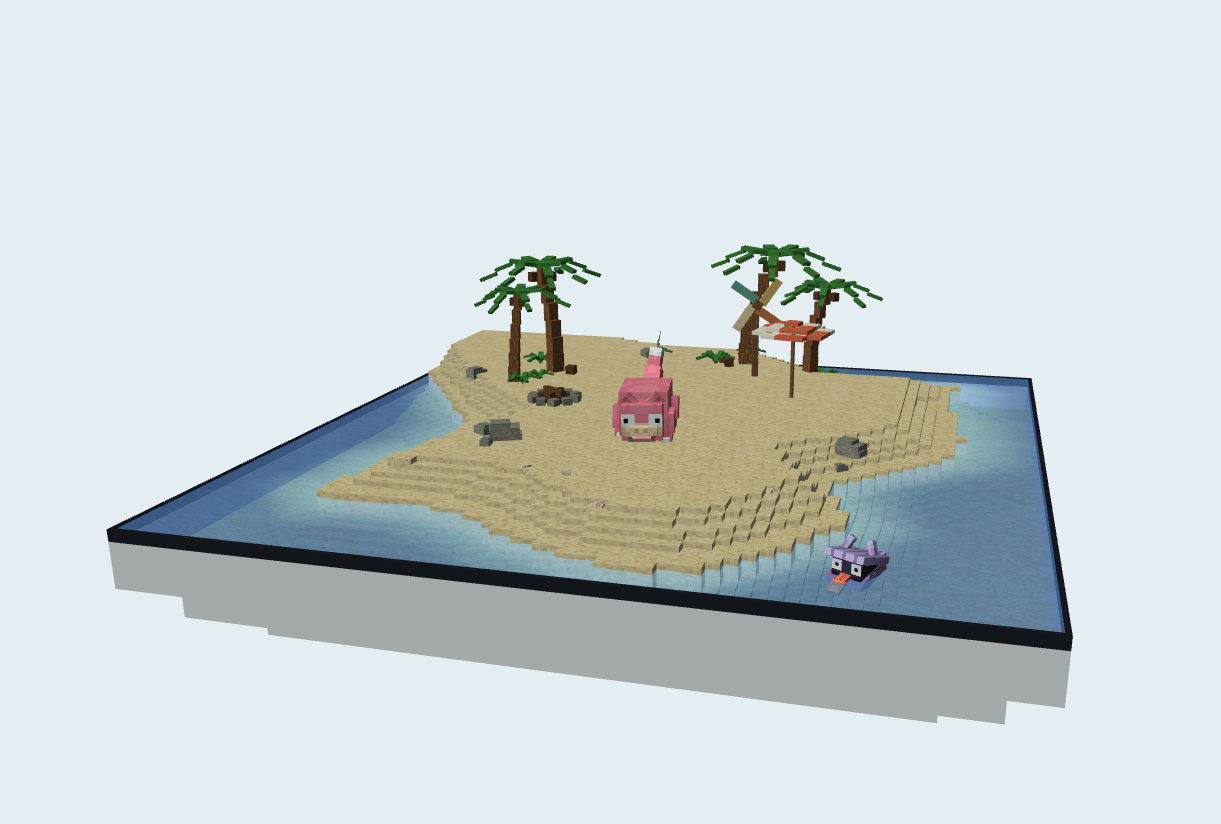
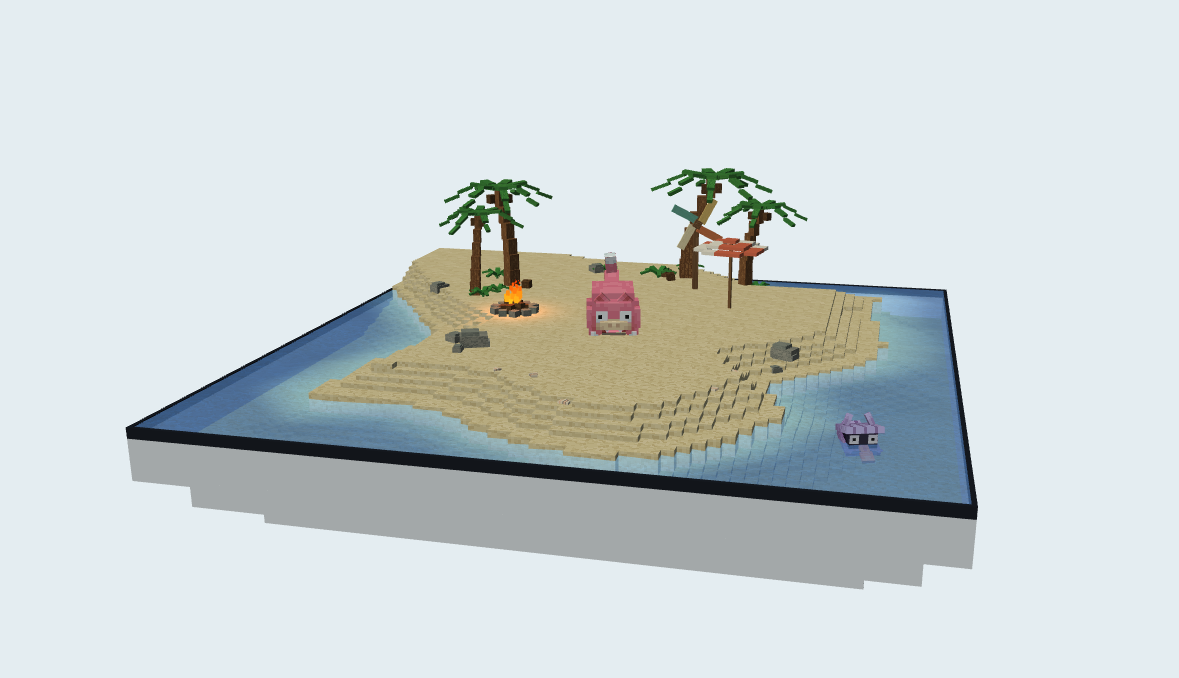
Mudanças e melhorias 2

Changed region(s): [[0.0916, 0.2478, 0.8855, 0.8982]]

diff --git a/src/cenario.js b/src/cenario.js
@@ -8,7 +8,8 @@ import { ventoNoTempo } from './ambiente.js';
 export function criarCenario(gl, alturaTerreno) {
   const cubo = primitives.createCubeBufferInfo(gl, 1);
   const texturas = criarTexturasCenario(gl);
-  const partes = [], objetos = [], raizes = [], helices = [];
+  const partes = [], objetos = [], raizes = [], helices = [], chamas = [];
+  let centroFogueira = [0, 0, 0];
 
   function no(pai, local = m4.identity()) {
     const filho = { local, world: m4.identity(), filhos: [], parte: null };
@@ -130,6 +131,12 @@ export function criarCenario(gl, alturaTerreno) {
 
   function fogueira(distancia, lado) {
     const raiz = registrar('fogueira', distancia, lado, 1.15);
+    centroFogueira = Array.from(m4.transformPoint(raiz.local, [0, 1.05, 0]));
+    for (let i = 0; i < 24; i++) {
+      const chama = peca(raiz, [0, 0.6, 0], [0.2, 0.3, 0.2], null, 'madeira');
+      chama.parte.emissao = 1;
+      chamas.push({ raiz, chama, indice: i });
+    }
     for (let i = 0; i < 10; i++) {
       const a = i * Math.PI / 5;
       peca(raiz, [Math.cos(a), 0.15, Math.sin(a)], [0.42, 0.30, 0.40], 'pedra', 'pedra',
@@ -170,8 +177,30 @@ export function criarCenario(gl, alturaTerreno) {
 
   return {
     partes, objetos,
+    luzFogueira(tempo) {
+      return {
+        u_fogoPosicao: centroFogueira,
+        u_fogoCor: [1, 0.34, 0.065],
+        u_fogoIntensidade: 2.2 + Math.sin(tempo * 7.1) * 0.18 + Math.sin(tempo * 11.7) * 0.1,
+        u_fogoAlcance: 6,
+      };
+    },
     atualizar(tempo) {
       const vento = ventoNoTempo(tempo);
+      for (const { raiz, chama, indice: i } of chamas) {
+        const fase = (tempo * (0.65 + (i % 4) * 0.07) + i / 24) % 1;
+        const angulo = i * 2.39996;
+        const raio = (0.12 + (i % 5) * 0.085) * (1 - fase * 0.65);
+        const tamanho = (0.24 + (i % 3) * 0.055) * (1 - fase)
+          * Math.min(1, fase / 0.08);
+        const posicao = [Math.cos(angulo) * raio + vento.direcao[0] * fase * fase * 0.35,
+          0.48 + fase * 1.35, Math.sin(angulo) * raio + vento.direcao[1] * fase * fase * 0.35];
+        // Evita matrizes singulares no nascimento e no desaparecimento dos cubos.
+        const escala = Math.max(0.001, tamanho);
+        chama.local = m4.scale(m4.translation(posicao), [escala, escala * 1.6, escala]);
+        chama.parte.color = [1, 0.8 - fase * 0.65, 0.12 * (1 - fase)];
+        atualizarNo(chama, raiz.world);
+      }
       for (const { raiz, helice } of helices) {
         helice.local = m4.rotateZ(m4.translation([0, 3.65, 0.32]), tempo * 0.5 + vento.deslocamento * 1.2);
         atualizarNo(helice, raiz.world);

diff --git a/src/main.js b/src/main.js
@@ -148,6 +148,7 @@ async function iniciar() {
     gl.useProgram(program.program);
     const iluminacao = {
       ...ambiente.uniforms(eye, animationTime),
+      ...cenario.luzFogueira(animationTime),
       u_cameraPosition: eye,
       u_lightDirection: [-0.5, 1, 0.8],
       u_lightColor: [1, 0.97, 0.90],
@@ -164,6 +165,7 @@ async function iniciar() {
         u_worldViewProjection: m4.multiply(viewProjection, part.world),
         u_worldInverseTranspose: m4.transpose(m4.inverse(part.world)),
         u_color: part.color,
+        u_emissao: part.emissao || 0,
         u_useTexture: Boolean(part.texture),
         u_texture: part.texture || whiteTexture,
         u_folha: Boolean(part.vento),

diff --git a/src/shellder.js b/src/shellder.js
@@ -36,7 +36,7 @@ export function criarPasseioShellder(navegacao, aleatorio = Math.random, profund
 
   function atualizarFlutuacao() {
     // Mais submerso em águas profundas; mantém folga nos degraus rasos.
-    const imersao = Math.min(0.95, profundidadeAgua(posicao[0], posicao[2], 1.65) - 0.12);
+    const imersao = Math.min(0.95, profundidadeAgua(posicao[0], posicao[2], 1.65) - 0.22);
     const alturaBase = ALTURA_SUPERFICIE - imersao - minimoModelo;
     const onda = alturaOnda(posicao[0], posicao[2], tempo, profundidadeAgua(posicao[0], posicao[2]));
     posicao[1] = alturaBase + onda + Math.sin(tempo * 1.4) * 0.015;

diff --git a/src/cobblemon.js b/src/cobblemon.js
@@ -149,7 +149,7 @@ export function pontaDaCauda(ossos, animacao, posicao, angulo, pontoLocal = [0, 
 
 export function desenharModelo(gl, programInfo, ossos, textura, animacao, viewProjection, posicao, escala, anguloY, material = MATERIAIS.slowpoke, brilho = 0) {
   // A deformação do vento é exclusiva da vegetação do cenário.
-  twgl.setUniforms(programInfo, { u_folha: false });
+  twgl.setUniforms(programInfo, { u_folha: false, u_emissao: 0 });
   const matrizes = calcularMatrizes(ossos, animacao, posicao, escala, anguloY);
   for (const osso of ossos.values()) {
     if (!osso.buffer) continue;

diff --git a/src/ondas.js b/src/ondas.js
@@ -10,6 +10,6 @@ export function alturaOnda(x, z, tempo, profundidade) {
   const fade = t * t * (3 - 2 * t) * Math.max(0, Math.min(1, profundidade / 0.9));
   const faseA = (x * dx + z * dz) * 0.85 - tempo * 1.6 - vento.deslocamento * 0.45;
   const faseB = (-x * dz + z * dx) * 1.15 + tempo * 1.1 + vento.deslocamento * 0.2;
-  return fade * (Math.sin(faseA) * (0.050 + vento.forca * 0.025)
-    + Math.cos(faseB) * (0.018 + vento.forca * 0.010));
+  return fade * (Math.sin(faseA) * (0.095 + vento.forca * 0.035)
+    + Math.cos(faseB) * (0.035 + vento.forca * 0.015));
 }

diff --git a/README.md b/README.md
@@ -8,7 +8,7 @@ Um diorama de praia inspirado no estilo em blocos do Minecraft, com Slowpoke pas
 
 Slowpoke possui quatro poses: em pé, dormindo deitado, deitado acordado e deitado na margem com a cauda na água. Na quarta pose, após uma espera de 5 segundos, Shellder se aproxima e morde a cauda. Um efeito de brilho e partículas revela Slowbro, que retorna ao interior da ilha e passa a caminhar pelo cenário.
 
-A cena possui duas câmeras, iluminação Blinn-Phong, texturas pixeladas, água transparente com ondas e textura animada, vento na vegetação e neblina. Os personagens seguem caminhos internos que consideram terreno, obstáculos e limites da base.
+A cena possui duas câmeras, iluminação Blinn-Phong, texturas pixeladas, água transparente com ondas e textura animada, vento na vegetação e neblina. A fogueira permanece acesa com chamas em blocos animados e uma luz pontual alaranjada que oscila e ilumina os objetos próximos. Os personagens seguem caminhos internos que consideram terreno, obstáculos e limites da base.
 
 ### Como executar
 
@@ -57,7 +57,7 @@ Slowbro no cenário após a evolução.
 
 ## Opcionais
 
-Foram implementados **9 itens opcionais**. Os trechos em citação abaixo reproduzem as descrições dos respectivos requisitos do enunciado; em seguida, é descrita sua aplicação no projeto.
+Foram implementados **10 itens opcionais**. Os trechos em citação abaixo reproduzem as descrições dos respectivos requisitos do enunciado; em seguida, é descrita sua aplicação no projeto.
 
 ### 1. Modelos tridimensionais
 
@@ -87,7 +87,7 @@ Vento direcional com intensidade variável deforma as folhas dos coqueiros e sam
 
 > **Líquido**: tenha uma região aquática como um lago, poça d'água, mar ou rio. Uma ideia para que um sólido pareça água é que ele (a) tenha certa transparência, (b) tenha uma textura com suas coordenadas animadas e (c-para oceano ou rio agitado) desloque verticalmente os vértices da superfície ao longo do tempo para criar ondas
 
-Mar com transparência, duas camadas de textura animada, deslocamento vertical dos vértices e cor/opacidade conforme a profundidade. Shellder acompanha a altura das ondas. Implementação em `src/agua.js`, `src/ondas.js` e `src/shaders/agua.*.glsl`.
+Mar com transparência, duas camadas de textura animada, ondas visíveis pelo deslocamento vertical dos vértices e cor/opacidade conforme a profundidade. As ondas são amortecidas junto à borda externa. Shellder acompanha sua altura, mantendo folga sobre o fundo. Implementação em `src/agua.js`, `src/ondas.js` e `src/shaders/agua.*.glsl`.
 
 ### 6. Poses alternativas
 
@@ -108,13 +108,19 @@ Slowpoke e Slowbro alternam entre repouso (`idle`) e passeio (`wandering`). Shel
 
 > **Efeitos de partículas**: para simular fenômenos como fogo, fumaça, água etc.
 
-A evolução emite 40 partículas em forma de cubos ao redor dos personagens, com movimento, variação de tamanho/cor e transparência ao longo do efeito. Implementação em `src/efeito-evolucao.js` e `src/shaders/evolucao.*.glsl`.
+A evolução emite 40 partículas em forma de cubos ao redor dos personagens, com movimento, variação de tamanho/cor e transparência ao longo do efeito. A fogueira também possui 24 partículas em blocos, que sobem, mudam do amarelo para o vermelho e diminuem até desaparecer, com desvio na direção do vento. Implementação em `src/efeito-evolucao.js`, `src/shaders/evolucao.*.glsl` e `src/cenario.js`.
 
 ### 9. Neblina
 
 > **Neblina**: funcionalidade acrescentada por comando do teclado (`N`), podendo ser habilitada e desabilitada durante a execução
 
 Neblina por distância aplicada ao cenário, personagens, água e partículas. Começa ativa, acompanha a distância da câmera e pode ser alternada com `N`. Implementação em `src/ambiente.js` e nos shaders GLSL.
+
+### 10. Fontes de luz pontuais
+
+> **Fontes de luz pontuais**: coloque fontes de luz em alguns objetos do cenário (eg, luz no poste ou uma poça de gosma radioativa)
+
+A fogueira emite luz alaranjada com intensidade oscilante e atenuação por distância, iluminando o terreno e os objetos próximos. A tecla `L` também ativa/desativa essa contribuição de luz; as chamas continuam visíveis. Implementação em `src/cenario.js`, `src/main.js` e nos shaders de iluminação do cenário e da água.
 
 ## Créditos
 
